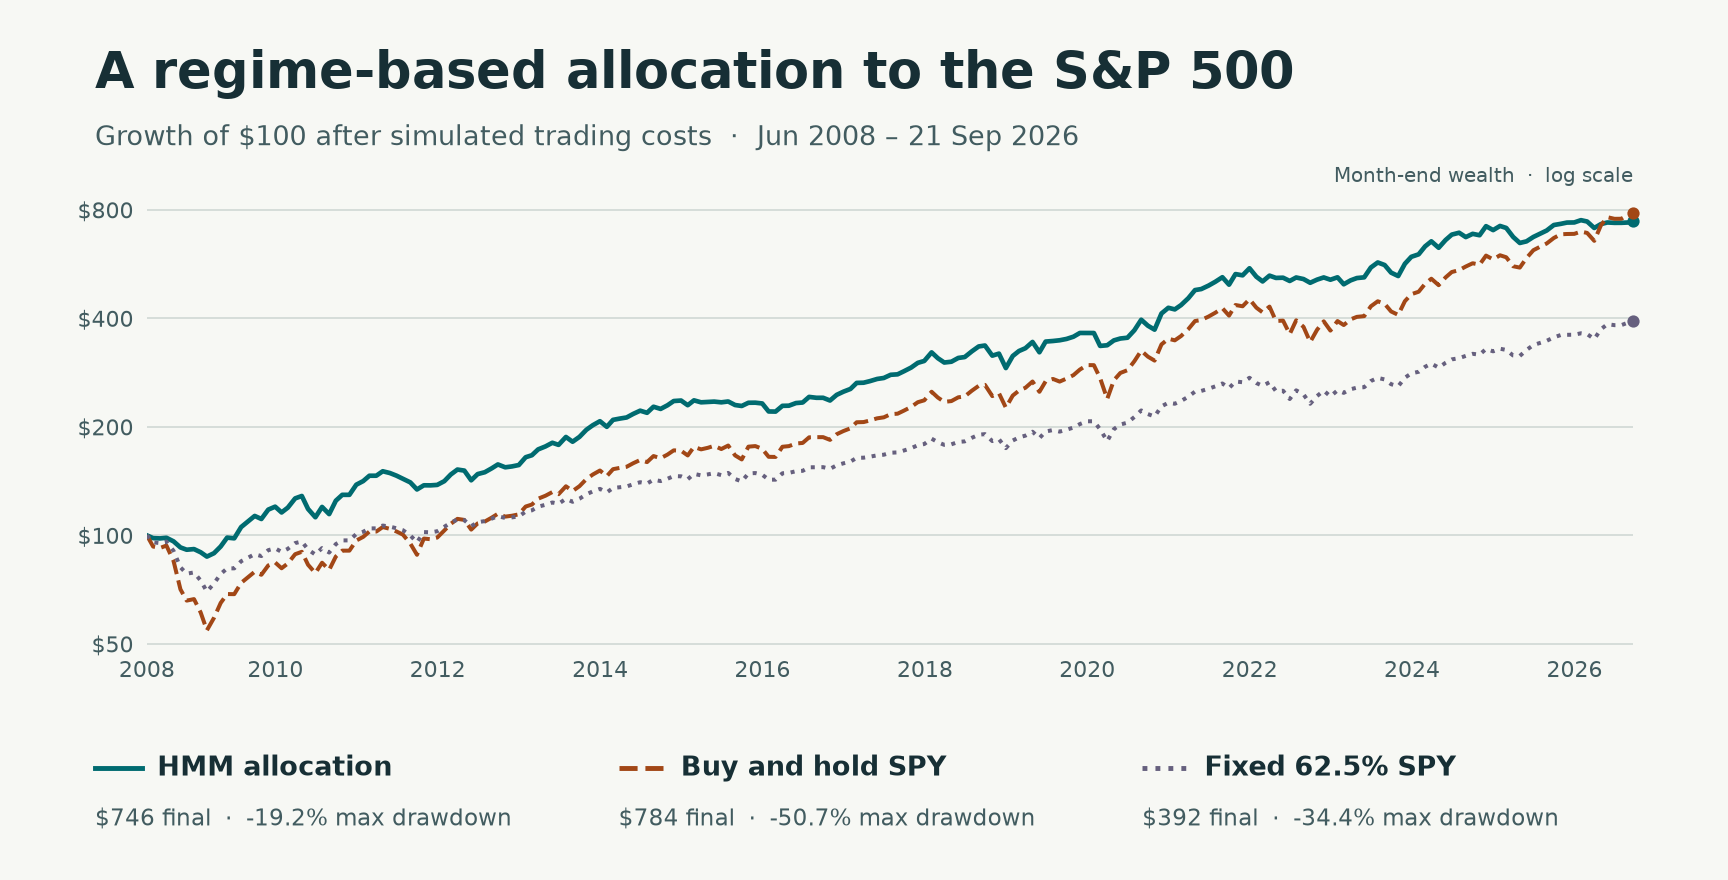
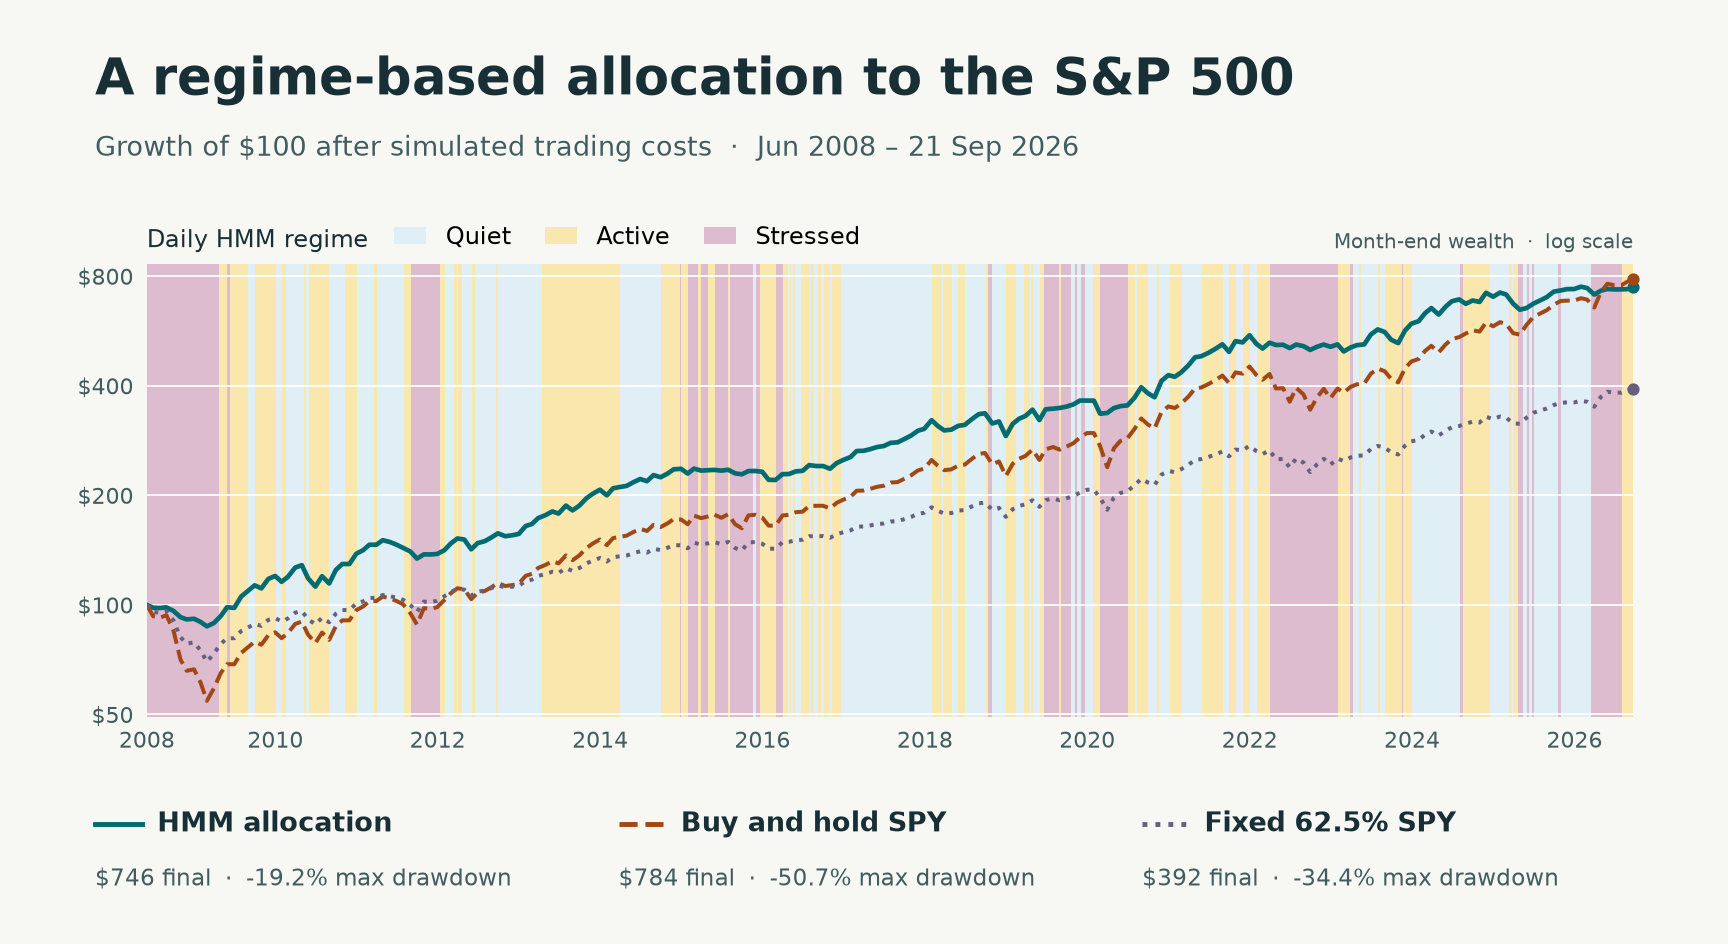
Shade the SPY backtest by the daily filtered HMM regime

diff --git a/research/landing_figure.py b/research/landing_figure.py
@@ -1,4 +1,4 @@
-"""Render the README figures from the published backtest and regime summaries."""
+"""Render the README figures from portfolio summaries and filtered HMM states."""
 
 import json
 import math
@@ -7,23 +7,34 @@ import matplotlib.dates as mdates
 import pandas as pd
 from matplotlib.figure import Figure
 from matplotlib.lines import Line2D
+from matplotlib.patches import Patch
 from matplotlib.ticker import NullLocator, PercentFormatter, StrMethodFormatter
 
+from research.landing_backtest import load_archived_states
 from research.practical_config import RESULTS, ROOT
 
 
-def write_spy_wealth():
+def write_spy_wealth(daily_labels):
     folder = ROOT / "docs/figures"
     wealth = pd.read_csv(folder / "spy-wealth.csv", index_col="date", parse_dates=["date"])
     performance = pd.read_csv(folder / "spy-performance.csv", index_col="strategy")
     first, last = wealth.index[[0, -1]]
+    if (
+        daily_labels.empty
+        or daily_labels.index.has_duplicates
+        or not daily_labels.index.is_monotonic_increasing
+        or (daily_labels.index[0], daily_labels.index[-1]) != (first, last)
+        or not daily_labels.isin([0, 1, 2]).all()
+    ):
+        raise ValueError("Expected ordered, filtered HMM labels covering the wealth chart")
+    regimes = [("Quiet", "#e0eff5"), ("Active", "#fae7ae"), ("Stressed", "#debcd0")]
     styles = [
         ("regime", "HMM allocation", "#006b70", "-"),
         ("spy", "Buy and hold SPY", "#a24716", "--"),
         ("static", "Fixed 62.5% SPY", "#66607e", ":"),
     ]
     paper, ink, muted = "#f7f8f4", "#172f35", "#425c60"
-    fig = Figure(figsize=(10.8, 5.5), facecolor=paper)
+    fig = Figure(figsize=(10.8, 5.9), facecolor=paper)
     fig.text(
         0.055, 0.90, "A regime-based allocation to the S&P 500", size=23, weight="bold", color=ink
     )
@@ -34,7 +45,23 @@ def write_spy_wealth():
         fontsize=12,
         color=muted,
     )
-    ax = fig.add_axes([0.085, 0.265, 0.86, 0.51], facecolor=paper)
+    ax = fig.add_axes([0.085, 0.24, 0.86, 0.48], facecolor=paper)
+    changes = daily_labels[daily_labels.ne(daily_labels.shift())]
+    ends = [*changes.index[1:], last]
+    for (start, label), end in zip(changes.items(), ends, strict=True):
+        ax.axvspan(start, end, color=regimes[int(label)][1], linewidth=0, zorder=0)
+    ax.text(0, 1.025, "Daily HMM regime", transform=ax.transAxes, color=ink, size=11, va="bottom")
+    ax.legend(
+        handles=[Patch(facecolor=color, label=name) for name, color in regimes],
+        loc="lower left",
+        bbox_to_anchor=(0.16, 1.01),
+        borderaxespad=0,
+        frameon=False,
+        ncols=3,
+        handlelength=1.3,
+        columnspacing=1.4,
+        fontsize=11,
+    )
     ax.set_yscale("log")
     low, high = wealth.min().min() * 0.90, wealth.max().max() * 1.10
     ticks = range(math.ceil(math.log2(low / 100)), math.floor(math.log2(high / 100)) + 1)
@@ -49,7 +76,7 @@ def write_spy_wealth():
     ax.spines[:].set_visible(False)
     ax.tick_params(length=0, labelsize=10, pad=6, colors=muted)
     ax.set_axisbelow(True)
-    ax.yaxis.grid(True, color="#cdd6d2", linewidth=0.7)
+    ax.yaxis.grid(True, color="white", linewidth=0.8)
     for i, (key, label, color, linestyle) in enumerate(styles):
         values = wealth[key]
         ax.plot(values, color=color, linestyle=linestyle, lw=2.1 if key == "regime" else 1.8)
@@ -146,5 +173,5 @@ def write_stress_history():
 
 
 if __name__ == "__main__":
-    write_spy_wealth()
+    write_spy_wealth(load_archived_states()["label"])
     write_stress_history()

diff --git a/research/landing_backtest.py b/research/landing_backtest.py
@@ -62,18 +62,12 @@ def write_landing_backtest(prices, stressed):
     summary.to_csv(output / "spy-performance.csv", float_format="%.8f")
 
 
-def replay_archived_backtest():
-    manifest = json.loads(MANIFEST.read_text())
-    entry = next(s for s in manifest["snapshots"] if s["ticker"] == "SPY")
-    price_path = ROOT / "research/data/raw" / entry["filename"]
+def load_archived_states():
     state_path = PATHS / "primary_states.csv"
     metadata = json.loads((RESULTS / "run_metadata.json").read_text())
     expected_state = metadata["private_outputs"][state_path.relative_to(ROOT).as_posix()]
-    if sha(price_path) != entry["sha256"] or sha(state_path) != expected_state:
-        raise ValueError("SPY prices or filtered states differ from the recorded study inputs")
-
-    prices = pd.read_csv(price_path, index_col="Date", parse_dates=True)
-    validate_prices(prices)
+    if sha(state_path) != expected_state:
+        raise ValueError("Filtered states differ from the recorded study inputs")
     states = pd.read_csv(state_path, index_col="date", parse_dates=True)
     diagnostics = json.loads((RESULTS / "diagnostics.json").read_text())
     if (states.index[0], states.index[-1]) != (
@@ -81,6 +75,18 @@ def replay_archived_backtest():
         pd.Timestamp(diagnostics["last_decision"]),
     ):
         raise ValueError("Filtered states differ from the published decision window")
+    return states
+
+
+def replay_archived_backtest():
+    manifest = json.loads(MANIFEST.read_text())
+    entry = next(s for s in manifest["snapshots"] if s["ticker"] == "SPY")
+    price_path = ROOT / "research/data/raw" / entry["filename"]
+    if sha(price_path) != entry["sha256"]:
+        raise ValueError("SPY prices differ from the recorded study inputs")
+    prices = pd.read_csv(price_path, index_col="Date", parse_dates=True)
+    validate_prices(prices)
+    states = load_archived_states()
     write_landing_backtest(prices.SPY, states.p_high)
 
 

diff --git a/research/practical_report.py b/research/practical_report.py
@@ -3,7 +3,7 @@
 import json
 import pandas as pd
 from research.common import table
-from research.landing_figure import write_spy_wealth, write_stress_history
+from research.landing_figure import write_stress_history
 from research.practical_config import ROOT, RESULTS
 
 
@@ -170,7 +170,6 @@ probability vector, asset-direction context and last review dates.
 """
     (ROOT / "docs/02-results.md").write_text(results)
     write_stress_history()
-    write_spy_wealth()
     portfolio = pd.read_csv(ROOT / "docs/figures/spy-performance.csv", index_col="strategy")
     regime, spy = portfolio.loc["regime"], portfolio.loc["spy"]
     switch_rate = representations.set_index("representation").label_switch_fraction
@@ -181,7 +180,12 @@ What happened to a stock portfolio that cut its exposure when markets looked str
 backtest uses a three-state hidden Markov model (HMM) across eight ETFs to size a
 position in **SPY**, the ETF tracking the S&P 500.
 
-![Growth of $100 from June 2008 to September 2026 for the regime allocation, buy-and-hold SPY, and a fixed 62.5% SPY allocation](docs/figures/spy-backtest.png)
+![Growth of $100 in three SPY portfolios, June 2008–September 2026, with blue, gold, and rose bands for quiet, active, and stressed markets](docs/figures/spy-backtest.png)
+
+Blue, gold, and rose bands mark the model’s **quiet**, **active**, and **stressed**
+classifications at each daily close. For example,
+the HMM switched from active to stressed on 28 February 2020 and back to active
+on 1 July.
 
 **The regime allocation gave up some growth for a shallower drawdown.**
 An initial \$100 grew to **\${regime.terminal_wealth:,.0f}** with the model and

diff --git a/research/run_study.py b/research/run_study.py
@@ -187,9 +187,11 @@ def main():
         reference,
     )
     from research.landing_backtest import write_landing_backtest
+    from research.landing_figure import write_spy_wealth
     from research.practical_report import write_report
 
     write_landing_backtest(prices["SPY"], states["p_high"])
+    write_spy_wealth(states["label"])
     write_report()
     write_metadata()
     print(

diff --git a/README.md b/README.md
@@ -4,7 +4,12 @@ What happened to a stock portfolio that cut its exposure when markets looked str
 backtest uses a three-state hidden Markov model (HMM) across eight ETFs to size a
 position in **SPY**, the ETF tracking the S&P 500.
 
-![Growth of $100 from June 2008 to September 2026 for the regime allocation, buy-and-hold SPY, and a fixed 62.5% SPY allocation](docs/figures/spy-backtest.png)
+![Growth of $100 in three SPY portfolios, June 2008–September 2026, with blue, gold, and rose bands for quiet, active, and stressed markets](docs/figures/spy-backtest.png)
+
+Blue, gold, and rose bands mark the model’s **quiet**, **active**, and **stressed**
+classifications at each daily close. For example,
+the HMM switched from active to stressed on 28 February 2020 and back to active
+on 1 July.
 
 **The regime allocation gave up some growth for a shallower drawdown.**
 An initial \$100 grew to **\$746** with the model and

diff --git a/docs/05-reproduction.md b/docs/05-reproduction.md
@@ -33,7 +33,10 @@ The study runner also applies the portfolio rule to its daily filtered states. T
 replay just that calculation from a matching local archive, run the two commands
 below. The first verifies the pinned SPY prices and daily state file against the
 study manifests, then writes the two summary CSVs in `docs/figures/`. The second
-redraws the README charts from the public summaries and also works in a fresh checkout.
+redraws the portfolio chart from those summaries and the archived daily labels.
+Each background band begins at the close when the filtered label changes and ends
+at the next change or the final observation. The rendered chart is included in a
+fresh checkout.
 
 ```bash
 uv run python -m research.landing_backtest
